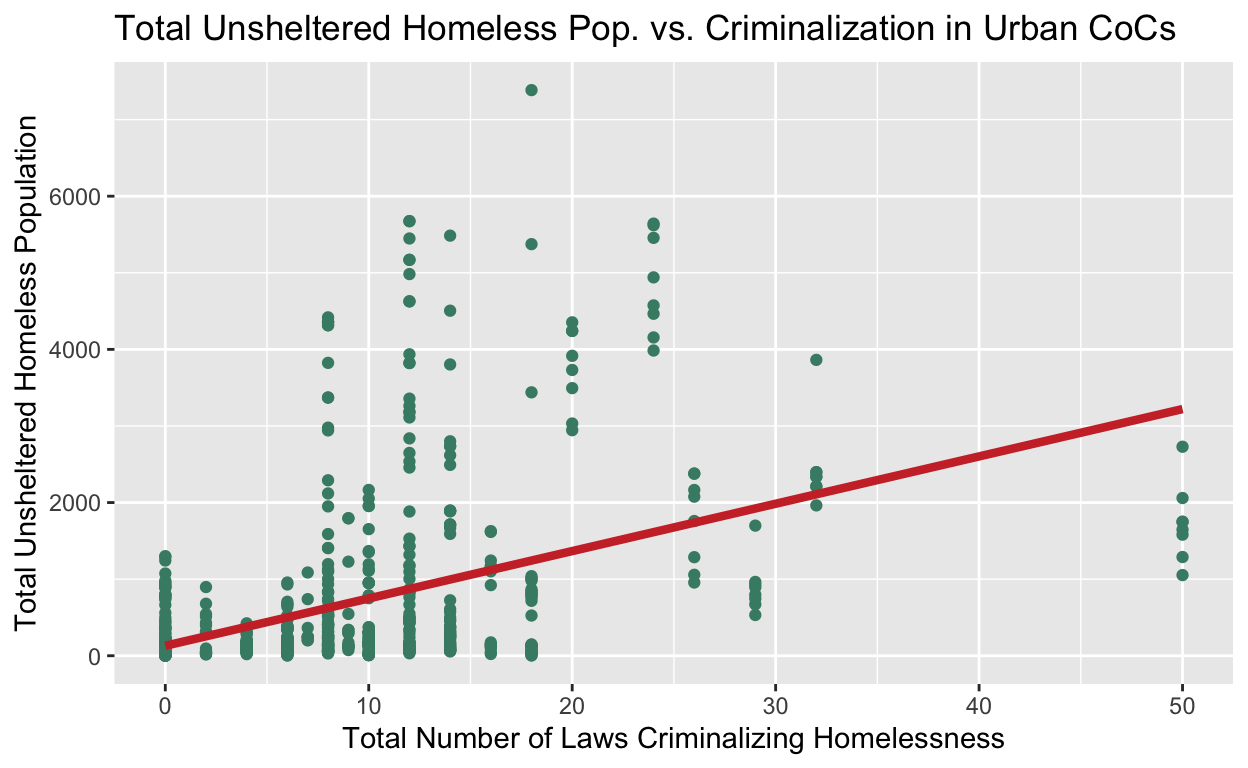
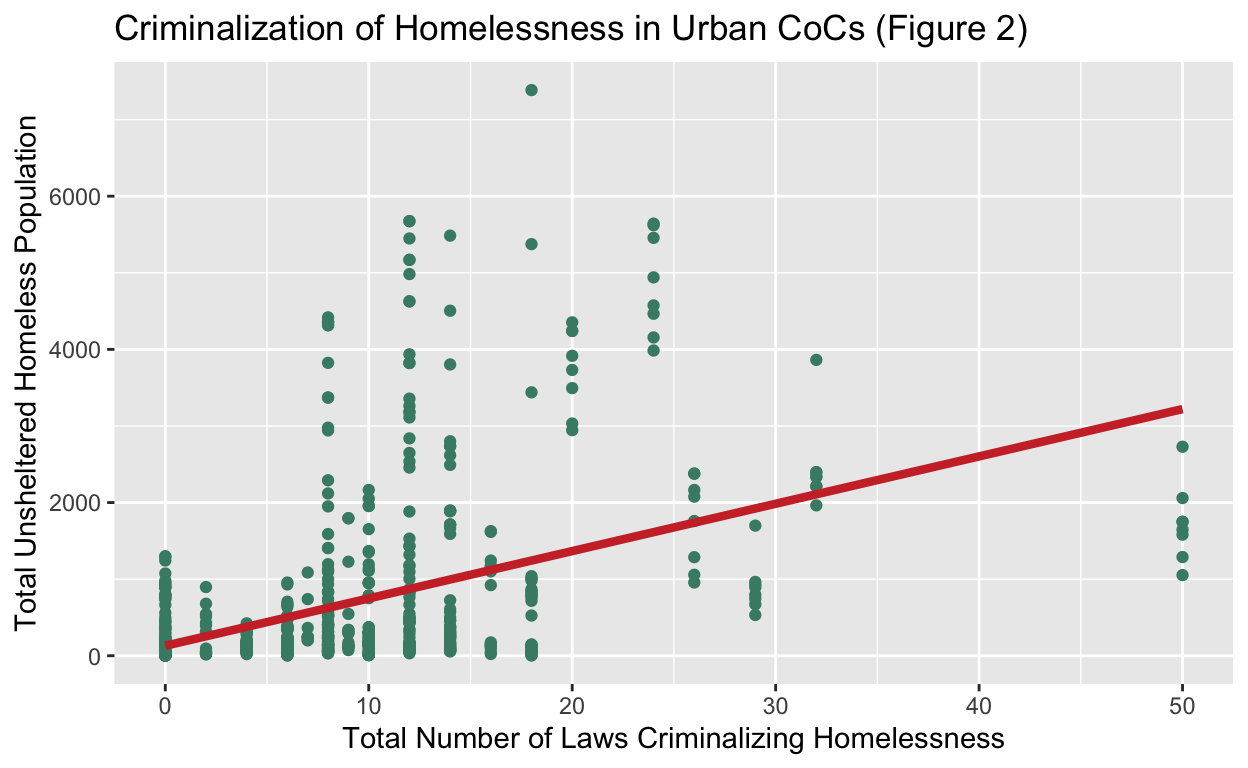
article

Changed region(s): [[0.0938, 0.0, 0.9375, 0.0625]]

diff --git a/index.html b/index.html
@@ -115,7 +115,7 @@ code span.wa { color: #5e5e5e; font-style: italic; } /* Warning */
   <!--/radix_placeholder_rmarkdown_metadata-->
   
   <script type="text/json" id="radix-resource-manifest">
-  {"type":"character","attributes":{},"value":["index_files/anchor-4.2.2/anchor.min.js","index_files/bowser-1.9.3/bowser.min.js","index_files/distill-2.2.21/template.v2.js","index_files/figure-html5/unnamed-chunk-1-1.png","index_files/figure-html5/unnamed-chunk-2-1.png","index_files/figure-html5/unnamed-chunk-3-1.png","index_files/figure-html5/unnamed-chunk-5-1.png","index_files/figure-html5/unnamed-chunk-7-1.png","index_files/figure-html5/unnamed-chunk-8-1.png","index_files/figure-html5/unnamed-chunk-9-1.png","index_files/header-attrs-2.17/header-attrs.js","index_files/header-attrs-2.24/header-attrs.js","index_files/jquery-3.6.0/jquery-3.6.0.js","index_files/jquery-3.6.0/jquery-3.6.0.min.js","index_files/jquery-3.6.0/jquery-3.6.0.min.map","index_files/popper-2.6.0/popper.min.js","index_files/tippy-6.2.7/tippy-bundle.umd.min.js","index_files/tippy-6.2.7/tippy-light-border.css","index_files/tippy-6.2.7/tippy.css","index_files/tippy-6.2.7/tippy.umd.min.js","index_files/webcomponents-2.0.0/webcomponents.js"]}
+  {"type":"character","attributes":{},"value":["index_files/anchor-4.2.2/anchor.min.js","index_files/bowser-1.9.3/bowser.min.js","index_files/distill-2.2.21/template.v2.js","index_files/figure-html5/unnamed-chunk-1-1.png","index_files/figure-html5/unnamed-chunk-2-1.png","index_files/figure-html5/unnamed-chunk-3-1.png","index_files/figure-html5/unnamed-chunk-5-1.png","index_files/figure-html5/unnamed-chunk-7-1.png","index_files/figure-html5/unnamed-chunk-8-1.png","index_files/figure-html5/unnamed-chunk-9-1.png","index_files/header-attrs-2.17/header-attrs.js","index_files/header-attrs-2.24/header-attrs.js","index_files/jquery-3.6.0/jquery-3.6.0.js","index_files/jquery-3.6.0/jquery-3.6.0.min.js","index_files/jquery-3.6.0/jquery-3.6.0.min.map","index_files/kePrint-0.0.1/kePrint.js","index_files/lightable-0.0.1/lightable.css","index_files/popper-2.6.0/popper.min.js","index_files/tippy-6.2.7/tippy-bundle.umd.min.js","index_files/tippy-6.2.7/tippy-light-border.css","index_files/tippy-6.2.7/tippy.css","index_files/tippy-6.2.7/tippy.umd.min.js","index_files/webcomponents-2.0.0/webcomponents.js"]}
   </script>
   <!--radix_placeholder_navigation_in_header-->
   <!--/radix_placeholder_navigation_in_header-->
@@ -1520,7 +1520,12 @@ code span.wa { color: #5e5e5e; font-style: italic; } /* Warning */
 
 <div class="d-article">
 <h2 id="introduction">Introduction</h2>
+<p>With the increase of unsheltered homelessness in communities across the nation, policy makers, service providers, and members of the public have to begun to call for real, lasting solutions to this ever-expanding humanitarian crisis. While some elected officials have responded to these calls with benevolent policies of supportive services and affordable housing, others have responded with punitive laws criminalizing the survival tactics of people experiencing homelessness, such as sleeping outside and receiving food from passersby. Recent research has detailed how these laws, motivated by anti-homeless sentiment, funnel the unhoused into the homelessness-jail cycle, further exacerbating their experience of homelessness (Bauman). With this understanding in mind, I set out to investigate this issue with the following research question: What is the relationship between laws criminalizing homelessness and the amount of unsheltered homelessness in urban communities? In this study, I plan to analyze the relationship between the community-level adoption of laws criminalizing homelessness through “quality of life” ordinances and the extent of homelessness in those communities, which will allow me to better understand the effectiveness or lack thereof of these laws. I hypothesize that the criminalization of homelessness is associated with higher levels of homelessness in urban areas, pointing to the harmful nature of criminalization. The null hypothesis, in this case, would be that there is no relationship between the two variables.</p>
 <h2 id="the-data">The Data</h2>
+<p>My sample consists of an aggregation of community-level data points for the over 400 Continuum of Cares (CoCs) across the United States. CoCs, the unit of analysis for this study, are the local planning bodies responsible for coordinating funding for homeless services in each community. In the remainder of this study, I will use the term “community” and “CoC” interchangeably.</p>
+<p>The key dependent variable of interest is the total amount of unsheltered homelessness in each urban CoC, which is coded as “pit_tot_unshelt_pit_hud.” This variable is collected through in-person surveys on a single night in January, hence this study’s cross-sectional design. The key independent variable of interest is the total number of municipal ordinances criminalizing homelessness in each CoC, which I measure through the count of sleeping, camping, lying/sitting, and vehicle restriction laws (hou_pol_hlessconduct_sleep), count of loitering and vagrancy laws (hou_pol_hlessconduct_loiter), total count of prohibited conduct laws (hou_pol_hlessconduct_total), count of begging laws (hou_pol_hlessconduct_beg), and count of food sha=ring laws (hou_pol_hlessconduct_food). These data points were collected through an analysis of each community’s “quality of life” ordinances by the National Law Center on Homelessness and Poverty (NLCHP). Additionally, to identify possible confounders, I measured the relationship between median gross rent for renter-occupied housing units and total unsheltered homelessness in each community. This variable was collected through surveys by the Census Bureau.</p>
+<p>I chose to focus on urban communities given that they, on average, have larger amounts of unsheltered homelessness as well as broader availability of data on this population than rural communities, which provides for a better study. Similarly, I chose to focus on unsheltered homelessness given that laws criminalizing homelessness target those sleeping outside, as opposed to those sleeping in shelters, given their heightened visibility.</p>
+<p>If I observe a positive relationship between total number of laws criminalizing homelessness and amount of unsheltered homelessness in urban communities, this would provide support for my hypothesis. However, if I observe a negative relationship or if the null hypothesis is confirmed through the lack of any relationship, this would provide evidence against my hypothesis. When I run a regression of the two variables, a positive coefficient with a p-value less than an alpha of 0.05 would demonstrate support for my hypothesis.</p>
 <div class="layout-chunk" data-layout="l-body">
 <div class="sourceCode">
 <pre class="sourceCode r"><code class="sourceCode r"><span><span class='kw'><a href='https://rdrr.io/r/base/library.html'>library</a></span><span class='op'>(</span><span class='va'><a href='https://tidyverse.tidyverse.org'>tidyverse</a></span><span class='op'>)</span></span>
@@ -1530,6 +1535,8 @@ code span.wa { color: #5e5e5e; font-style: italic; } /* Warning */
 </div>
 </div>
 <h2 id="filtering-and-mutating-the-data">Filtering and Mutating the Data</h2>
+<p>The original data set lacks an aggregate variable of all the “quality of life” ordinances in each community, so I mutated the data to include a new variable, <code>criminalization_laws</code>, which is the total sum of all “quality of life” ordinances criminalizing</p>
+<p>Given my study’s focus on urban communities, I created a subset of the data named <code>homelessdata_urban</code> that only includes Continuum of Cares (CoCs) in “Largely Urban” or “Major City” areas. Within this same subset, I also filtered the data to exclude CoCs which had a total unsheltered homeless population above 20,000 since these communities are outliers that skewed my past plots.</p>
 <div class="layout-chunk" data-layout="l-body">
 <div class="sourceCode">
 <pre class="sourceCode r"><code class="sourceCode r"><span><span class='va'>homelessdata</span> <span class='op'>&lt;-</span> <span class='va'>homelessdata</span> <span class='op'>|&gt;</span></span>
@@ -1545,6 +1552,7 @@ code span.wa { color: #5e5e5e; font-style: italic; } /* Warning */
 </div>
 </div>
 <h2 id="summary-of-the-dependent-variable">Summary of the Dependent Variable</h2>
+<p>As a summary of the main dependent variable in my study, I plotted the total amount unsheltered homelessness in all CoCs over time (2010-2017). The below bar plot indicates that since 2014, unsheltered homelessness has been increasing in communities across the United States. With this study, I hope to better understand whther the criminalization of homelessness has contributed to this increase.</p>
 <div class="layout-chunk" data-layout="l-body">
 <div class="sourceCode">
 <pre class="sourceCode r"><code class="sourceCode r"><span><span class='va'>summary_homeless</span> <span class='op'>&lt;-</span> <span class='va'>homelessdata_urban</span> <span class='op'>|&gt;</span></span>
@@ -1553,7 +1561,7 @@ code span.wa { color: #5e5e5e; font-style: italic; } /* Warning */
 <span>  <span class='fu'><a href='https://ggplot2.tidyverse.org/reference/geom_bar.html'>geom_col</a></span><span class='op'>(</span>fill <span class='op'>=</span> <span class='st'>"aquamarine4"</span><span class='op'>)</span> <span class='op'>+</span></span>
 <span>  <span class='fu'><a href='https://ggplot2.tidyverse.org/reference/labs.html'>labs</a></span><span class='op'>(</span>x <span class='op'>=</span> <span class='st'>"Year"</span>,</span>
 <span>       y <span class='op'>=</span> <span class='st'>"Total Unsheltered Homeless Population"</span>,</span>
-<span>       title <span class='op'>=</span> <span class='st'>"Total Unsheltered Homeless Population Over Time"</span><span class='op'>)</span></span>
+<span>       title <span class='op'>=</span> <span class='st'>"Total Unsheltered Homeless Population Over Time (Figure 1)"</span><span class='op'>)</span></span>
 <span></span>
 <span><span class='va'>summary_homeless</span></span></code></pre>
 </div>
@@ -1561,6 +1569,7 @@ code span.wa { color: #5e5e5e; font-style: italic; } /* Warning */
 </div>
 <h2 id="results">Results</h2>
 <h2 id="main-regression">Main Regression</h2>
+<p>The following output is a regression equation using my primary independent variable, total number of laws criminalizing homelessness.</p>
 <div class="layout-chunk" data-layout="l-body">
 <div class="sourceCode">
 <pre class="sourceCode r"><code class="sourceCode r"><span><span class='va'>fit_main</span> <span class='op'>&lt;-</span> <span class='fu'><a href='https://rdrr.io/r/stats/lm.html'>lm</a></span><span class='op'>(</span><span class='va'>pit_tot_unshelt_pit_hud</span> <span class='op'>~</span> <span class='va'>criminalization_laws</span>, data <span class='op'>=</span> <span class='va'>homelessdata_urban</span><span class='op'>)</span></span>
@@ -1656,7 +1665,9 @@ R2 Adj.
 </tbody>
 </table>
 </div>
+<p>As seen in the above table, the intercept has a coefficient of 130.241, which can be interpreted as the following: when a community does not have any laws criminalizing homelessness, the CoC has around 130 individuals experiencing unsheltered homelessness within its boundaries. Furthermore, the variable measuring the criminalization of homelessness in each community has a coefficient of 61.086, which can be interpreted as the following: each additional law criminalizing homelessness is correlated with an increase in a community’s total unsheltered homelessness by around 61 persons. Given that the p-value for this coefficient, which is less than 0.001, is smaller than the pre-specified significance level, alpha = 0.05, the coefficient is statistically significant, thus supporting my hypothesis that there is a positive relationship between the criminalization of homelessness and the amount of homelessness in urban communities. However, this relationship can not be determined as causal given the potential presence of confounding variables.</p>
 <h2 id="plot-of-main-regression">Plot of Main Regression</h2>
+<p>The following graph is a scatter plot displaying the above regression using the main independent variable, total number of laws criminalizing homelessness, plotted against .</p>
 <div class="layout-chunk" data-layout="l-body">
 <div class="sourceCode">
 <pre class="sourceCode r"><code class="sourceCode r"><span><span class='va'>homeless_criminalization</span> <span class='op'>&lt;-</span> <span class='va'>homelessdata_urban</span> <span class='op'>|&gt;</span></span>
@@ -1666,22 +1677,23 @@ R2 Adj.
 <span>  <span class='fu'><a href='https://ggplot2.tidyverse.org/reference/geom_smooth.html'>geom_smooth</a></span><span class='op'>(</span>method <span class='op'>=</span> <span class='st'>"lm"</span>, se <span class='op'>=</span> <span class='cn'>FALSE</span>, color <span class='op'>=</span> <span class='st'>"brown3"</span>, size <span class='op'>=</span> <span class='fl'>1.5</span><span class='op'>)</span> <span class='op'>+</span></span>
 <span>   <span class='fu'><a href='https://ggplot2.tidyverse.org/reference/labs.html'>labs</a></span><span class='op'>(</span>x <span class='op'>=</span> <span class='st'>"Total Number of Laws Criminalizing Homelessness"</span>,</span>
 <span>       y <span class='op'>=</span> <span class='st'>"Total Unsheltered Homeless Population"</span>,</span>
-<span>       title <span class='op'>=</span> <span class='st'>"Total Unsheltered Homeless Pop. vs. Criminalization in Urban CoCs"</span><span class='op'>)</span></span>
+<span>       title <span class='op'>=</span> <span class='st'>"Criminalization of Homelessness in Urban CoCs (Figure 2)"</span><span class='op'>)</span></span>
 <span></span>
 <span><span class='va'>homeless_criminalization</span></span></code></pre>
 </div>
 <p><img src="index_files/figure-html5/unnamed-chunk-5-1.png" width="624" /></p>
 </div>
+<p>As the plot shows, there is a positive correlation between criminalization of homelessness and the amount of homelessness in urban communities.</p>
 <h2 id="multiple-regression">Multiple Regression</h2>
+<p>Though my main regression demonstrates a strong relationship between laws criminalizing homelessness and amount of unsheltered homelessness in communities, it is important to consider potential confounding variables that may be skewing the relationship. Given that homelessness is fundamentally a housing problem, I decided to run another regression equation that includes the median gross rent of renter-occupied housing units in an effort to see the relationship between housing prices and amount of unsheltered homelessness in each community. The regression is displayed in the below output.</p>
 <div class="layout-chunk" data-layout="l-body">
 <div class="sourceCode">
-<pre class="sourceCode r"><code class="sourceCode r"><span><span class='va'>fit_multiple</span> <span class='op'>&lt;-</span> <span class='fu'><a href='https://rdrr.io/r/stats/lm.html'>lm</a></span><span class='op'>(</span><span class='va'>pit_tot_unshelt_pit_hud</span> <span class='op'>~</span> <span class='va'>criminalization_laws</span> <span class='op'>+</span> <span class='va'>hou_mkt_medrentgross_acs5yr</span> <span class='op'>+</span> <span class='va'>dem_pop_pop_census</span> <span class='op'>+</span> <span class='va'>econ_labor_medinc_census</span>, data <span class='op'>=</span> <span class='va'>homelessdata_urban</span><span class='op'>)</span></span>
+<pre class="sourceCode r"><code class="sourceCode r"><span><span class='va'>fit_multiple</span> <span class='op'>&lt;-</span> <span class='fu'><a href='https://rdrr.io/r/stats/lm.html'>lm</a></span><span class='op'>(</span><span class='va'>pit_tot_unshelt_pit_hud</span> <span class='op'>~</span> <span class='va'>criminalization_laws</span> <span class='op'>+</span> <span class='va'>hou_mkt_medrentgross_acs5yr</span>,</span>
+<span>                   data <span class='op'>=</span> <span class='va'>homelessdata_urban</span><span class='op'>)</span></span>
 <span></span>
 <span><span class='va'>var_labels</span> <span class='op'>&lt;-</span> <span class='fu'><a href='https://rdrr.io/r/base/c.html'>c</a></span><span class='op'>(</span><span class='st'>"(Intercept)"</span> <span class='op'>=</span> <span class='st'>"Intercept"</span>,</span>
 <span>                <span class='st'>"criminalization_laws"</span> <span class='op'>=</span> <span class='st'>"Laws Criminalizing Homelessness"</span>,</span>
-<span>                <span class='st'>"hou_mkt_medrentgross_acs5yr"</span> <span class='op'>=</span> <span class='st'>"Median Gross Rent (Renter-Occupied Housing Units)"</span>,</span>
-<span>                <span class='st'>"dem_pop_pop_census"</span> <span class='op'>=</span> <span class='st'>"Total Population"</span>,</span>
-<span>                <span class='st'>"econ_labor_medinc_census"</span> <span class='op'>=</span> <span class='st'>"Share of Renter-Occupied Households with an Eviction Filed"</span><span class='op'>)</span></span>
+<span>                <span class='st'>"hou_mkt_medrentgross_acs5yr"</span> <span class='op'>=</span> <span class='st'>"Median Gross Rent (Renter-Occupied Housing Units)"</span><span class='op'>)</span></span>
 <span></span>
 <span><span class='fu'>modelsummary</span><span class='fu'>::</span><span class='fu'><a href='https://rdrr.io/pkg/modelsummary/man/modelsummary.html'>modelsummary</a></span><span class='op'>(</span><span class='va'>fit_multiple</span>,</span>
 <span>                           statistic <span class='op'>=</span> <span class='fu'><a href='https://rdrr.io/r/base/c.html'>c</a></span><span class='op'>(</span><span class='st'>"s.e. = {std.error}"</span>,</span>
@@ -1705,14 +1717,14 @@ R2 Adj.
 Intercept
 </td>
 <td style="text-align:center;">
-−1356.066
+−1687.315
 </td>
 </tr>
 <tr>
 <td style="text-align:left;">
 </td>
 <td style="text-align:center;">
-s.e. = 254.663
+s.e. = 264.607
 </td>
 </tr>
 <tr>
@@ -1727,14 +1739,14 @@ p = &lt;0.001
 Laws Criminalizing Homelessness
 </td>
 <td style="text-align:center;">
-37.211
+56.642
 </td>
 </tr>
 <tr>
 <td style="text-align:left;">
 </td>
 <td style="text-align:center;">
-s.e. = 8.336
+s.e. = 8.288
 </td>
 </tr>
 <tr>
@@ -1749,65 +1761,21 @@ p = &lt;0.001
 Median Gross Rent (Renter-Occupied Housing Units)
 </td>
 <td style="text-align:center;">
-2.628
+2.089
 </td>
 </tr>
 <tr>
 <td style="text-align:left;">
 </td>
 <td style="text-align:center;">
-s.e. = 0.509
-</td>
-</tr>
-<tr>
-<td style="text-align:left;">
-</td>
-<td style="text-align:center;">
-p = &lt;0.001
-</td>
-</tr>
-<tr>
-<td style="text-align:left;">
-Total Population
-</td>
-<td style="text-align:center;">
-0.000
-</td>
-</tr>
-<tr>
-<td style="text-align:left;">
-</td>
-<td style="text-align:center;">
-s.e. = 0.000
-</td>
-</tr>
-<tr>
-<td style="text-align:left;">
-</td>
-<td style="text-align:center;">
-p = &lt;0.001
-</td>
-</tr>
-<tr>
-<td style="text-align:left;">
-Share of Renter-Occupied Households with an Eviction Filed
-</td>
-<td style="text-align:center;">
-−17.781
-</td>
-</tr>
-<tr>
-<td style="text-align:left;">
-</td>
-<td style="text-align:center;">
-s.e. = 8.355
+s.e. = 0.285
 </td>
 </tr>
 <tr>
 <td style="text-align:left;box-shadow: 0px 1.5px">
 </td>
 <td style="text-align:center;box-shadow: 0px 1.5px">
-p = 0.035
+p = &lt;0.001
 </td>
 </tr>
 <tr>
@@ -1823,7 +1791,7 @@ Num.Obs.
 R2
 </td>
 <td style="text-align:center;">
-0.477
+0.378
 </td>
 </tr>
 <tr>
@@ -1831,60 +1799,39 @@ R2
 R2 Adj.
 </td>
 <td style="text-align:center;">
-0.467
+0.372
 </td>
 </tr>
 </tbody>
 </table>
 </div>
 <h2 id="plot-of-multiple-regression">Plot of Multiple Regression</h2>
+<p>The following graph is a scatter plot displaying the above regression using the confounding variable, median gross rent of renter-occupied housing units.</p>
 <div class="layout-chunk" data-layout="l-body">
 <div class="sourceCode">
 <pre class="sourceCode r"><code class="sourceCode r"><span><span class='va'>homeless_rentprice</span> <span class='op'>&lt;-</span> <span class='va'>homelessdata_urban</span> <span class='op'>|&gt;</span></span>
 <span>  <span class='fu'><a href='https://ggplot2.tidyverse.org/reference/ggplot.html'>ggplot</a></span><span class='op'>(</span><span class='fu'><a href='https://ggplot2.tidyverse.org/reference/aes.html'>aes</a></span><span class='op'>(</span>x <span class='op'>=</span>  <span class='va'>hou_mkt_medrentgross_acs5yr</span>, </span>
 <span>             y <span class='op'>=</span> <span class='va'>pit_tot_unshelt_pit_hud</span><span class='op'>)</span><span class='op'>)</span> <span class='op'>+</span> </span>
-<span>  <span class='fu'><a href='https://ggplot2.tidyverse.org/reference/geom_point.html'>geom_point</a></span><span class='op'>(</span>color <span class='op'>=</span> <span class='st'>"dodgerblue3"</span><span class='op'>)</span> <span class='op'>+</span> </span>
-<span>  <span class='fu'><a href='https://ggplot2.tidyverse.org/reference/geom_smooth.html'>geom_smooth</a></span><span class='op'>(</span>method <span class='op'>=</span> <span class='st'>"lm"</span>, se <span class='op'>=</span> <span class='cn'>FALSE</span>, color <span class='op'>=</span> <span class='st'>"firebrick2"</span>, size <span class='op'>=</span> <span class='fl'>1.5</span><span class='op'>)</span> <span class='op'>+</span></span>
-<span>  <span class='fu'><a href='https://ggplot2.tidyverse.org/reference/labs.html'>labs</a></span><span class='op'>(</span>x <span class='op'>=</span> <span class='st'>"Total Number of Laws Criminalizing Homelessness"</span>,</span>
+<span>  <span class='fu'><a href='https://ggplot2.tidyverse.org/reference/geom_point.html'>geom_point</a></span><span class='op'>(</span>color <span class='op'>=</span> <span class='st'>"aquamarine4"</span><span class='op'>)</span> <span class='op'>+</span> </span>
+<span>  <span class='fu'><a href='https://ggplot2.tidyverse.org/reference/geom_smooth.html'>geom_smooth</a></span><span class='op'>(</span>method <span class='op'>=</span> <span class='st'>"lm"</span>, se <span class='op'>=</span> <span class='cn'>FALSE</span>, color <span class='op'>=</span> <span class='st'>"brown3"</span>, size <span class='op'>=</span> <span class='fl'>1.5</span><span class='op'>)</span> <span class='op'>+</span></span>
+<span>  <span class='fu'><a href='https://ggplot2.tidyverse.org/reference/labs.html'>labs</a></span><span class='op'>(</span>x <span class='op'>=</span> <span class='st'>"Median Gross Rent (Renter-Occupied Housing Units)"</span>,</span>
 <span>       y <span class='op'>=</span> <span class='st'>"Total Unsheltered Homeless Population"</span>,</span>
-<span>       title <span class='op'>=</span> <span class='st'>"Total Unsheltered Homeless Pop. vs. Criminalization in Urban CoCs"</span><span class='op'>)</span></span>
+<span>       title <span class='op'>=</span> <span class='st'>"Total Unsheltered Homeless Pop. vs. Median Gross Rent (Figure 3)"</span><span class='op'>)</span></span>
 <span></span>
 <span><span class='va'>homeless_rentprice</span></span></code></pre>
 </div>
 <p><img src="index_files/figure-html5/unnamed-chunk-7-1.png" width="624" /></p>
 </div>
-<div class="layout-chunk" data-layout="l-body">
-<div class="sourceCode">
-<pre class="sourceCode r"><code class="sourceCode r"><span><span class='va'>homeless_censuspop</span> <span class='op'>&lt;-</span> <span class='va'>homelessdata_urban</span> <span class='op'>|&gt;</span></span>
-<span>  <span class='fu'><a href='https://ggplot2.tidyverse.org/reference/ggplot.html'>ggplot</a></span><span class='op'>(</span><span class='fu'><a href='https://ggplot2.tidyverse.org/reference/aes.html'>aes</a></span><span class='op'>(</span>x <span class='op'>=</span>  <span class='va'>dem_pop_pop_census</span>, </span>
-<span>             y <span class='op'>=</span> <span class='va'>pit_tot_unshelt_pit_hud</span><span class='op'>)</span><span class='op'>)</span> <span class='op'>+</span> </span>
-<span>  <span class='fu'><a href='https://ggplot2.tidyverse.org/reference/geom_point.html'>geom_point</a></span><span class='op'>(</span>color <span class='op'>=</span> <span class='st'>"dodgerblue3"</span><span class='op'>)</span> <span class='op'>+</span> </span>
-<span>  <span class='fu'><a href='https://ggplot2.tidyverse.org/reference/geom_smooth.html'>geom_smooth</a></span><span class='op'>(</span>method <span class='op'>=</span> <span class='st'>"lm"</span>, se <span class='op'>=</span> <span class='cn'>FALSE</span>, color <span class='op'>=</span> <span class='st'>"firebrick2"</span>, size <span class='op'>=</span> <span class='fl'>1.5</span><span class='op'>)</span> <span class='op'>+</span></span>
-<span>  <span class='fu'><a href='https://ggplot2.tidyverse.org/reference/labs.html'>labs</a></span><span class='op'>(</span>x <span class='op'>=</span> <span class='st'>"Total Number of Laws Criminalizing Homelessness"</span>,</span>
-<span>       y <span class='op'>=</span> <span class='st'>"Total Unsheltered Homeless Population"</span>,</span>
-<span>       title <span class='op'>=</span> <span class='st'>"Total Unsheltered Homeless Pop. vs. Criminalization in Urban CoCs"</span><span class='op'>)</span></span>
-<span></span>
-<span><span class='va'>homeless_censuspop</span></span></code></pre>
-</div>
-<p><img src="index_files/figure-html5/unnamed-chunk-8-1.png" width="624" /></p>
-</div>
-<div class="layout-chunk" data-layout="l-body">
-<div class="sourceCode">
-<pre class="sourceCode r"><code class="sourceCode r"><span><span class='va'>homeless_eviction</span> <span class='op'>&lt;-</span> <span class='va'>homelessdata_urban</span> <span class='op'>|&gt;</span></span>
-<span>  <span class='fu'><a href='https://ggplot2.tidyverse.org/reference/ggplot.html'>ggplot</a></span><span class='op'>(</span><span class='fu'><a href='https://ggplot2.tidyverse.org/reference/aes.html'>aes</a></span><span class='op'>(</span>x <span class='op'>=</span> <span class='va'>econ_labor_medinc_census</span>, </span>
-<span>             y <span class='op'>=</span> <span class='va'>pit_tot_unshelt_pit_hud</span><span class='op'>)</span><span class='op'>)</span> <span class='op'>+</span> </span>
-<span>  <span class='fu'><a href='https://ggplot2.tidyverse.org/reference/geom_point.html'>geom_point</a></span><span class='op'>(</span>color <span class='op'>=</span> <span class='st'>"dodgerblue3"</span><span class='op'>)</span> <span class='op'>+</span> </span>
-<span>  <span class='fu'><a href='https://ggplot2.tidyverse.org/reference/geom_smooth.html'>geom_smooth</a></span><span class='op'>(</span>method <span class='op'>=</span> <span class='st'>"lm"</span>, se <span class='op'>=</span> <span class='cn'>FALSE</span>, color <span class='op'>=</span> <span class='st'>"firebrick2"</span>, size <span class='op'>=</span> <span class='fl'>1.5</span><span class='op'>)</span> <span class='op'>+</span> </span>
-<span>  <span class='fu'><a href='https://ggplot2.tidyverse.org/reference/labs.html'>labs</a></span><span class='op'>(</span>x <span class='op'>=</span> <span class='st'>"Total Number of Laws Criminalizing Homelessness"</span>,</span>
-<span>       y <span class='op'>=</span> <span class='st'>"Total Unsheltered Homeless Population"</span>,</span>
-<span>       title <span class='op'>=</span> <span class='st'>"Total Unsheltered Homeless Pop. vs. Criminalization in Urban CoCs"</span><span class='op'>)</span></span>
-<span></span>
-<span><span class='va'>homeless_eviction</span></span></code></pre>
-</div>
-<p><img src="index_files/figure-html5/unnamed-chunk-9-1.png" width="624" /></p>
-</div>
+<p>Confirming the regression output, there is a positive correlation between median gross rent and the amount of unsheltered homelessness in urban communities.</p>
 <h2 id="conclusion">Conclusion</h2>
+<p>Overall, there appears to be a positive, statistically significant relationship between the criminalization of homelessness through “quality of life” ordinances and the amount of unsheltered homelessness in urban communities</p>
+<p>indicates support for the claim that the criminalization of homelessness is harmful, though more research is needed to look into whether the laws criminalizing homeless are a cause or an effect of high rates of homelessness, also need to control more for population size and other confounding variables that may</p>
+<p>However, there are several limitations of muy study. For example, though the Point-In-Time (PIT) count that I used for the measurement of unsheltered homelessness is the most reliable measure of the data point that exists, it is still … Furthermore, I used total unsheltered homelessness as opposed to unsheltered homeless per capita because…. Finally, the dataset that I used only went up to 2017, which limits the external validity of the study, though my results do still indicate trends that we are likely still seeing today.</p>
+<p>Unsheltered homelessness can be very hard to quantify given … and the PIT count isn’t the most reliable method
+I focused on total homelessness as opposed to per capita in order to</p>
+<p>To address these limitations and explore the observed relationship in greater depth, future research should</p>
 <h2 id="works-cited">Works Cited</h2>
+<p>Bauman, Tristia. “Housing Not Handcuffs: Ending the Criminalization of Homelessness in U.S. Cities.” National Homelessness Law Center, homelesslaw.org/wp-content/uploads/2018/10/Housing-Not-Handcuffs.pdf.</p>
 <p>Nisar, Hiren, et al. “Market Predictors of Homelessness: How Housing and Community Factors Shape Homelessness Rates within Continuums of Care.” HUD: Office of Policy Development and Research, 2019, www.huduser.gov/portal/publications/Market-Predictors-of-Homelessness.html.</p>
 <p>Nisar, Hiren, et al. “Homeless Prediction Model.” HUD: Office of Policy Development and Research, 2019, <a href="https://www.huduser.gov/portal/datasets/hpmd.html" class="uri">https://www.huduser.gov/portal/datasets/hpmd.html</a>.</p>
 <div class="sourceCode" id="cb1"><pre class="sourceCode r distill-force-highlighting-css"><code class="sourceCode r"></code></pre></div>
